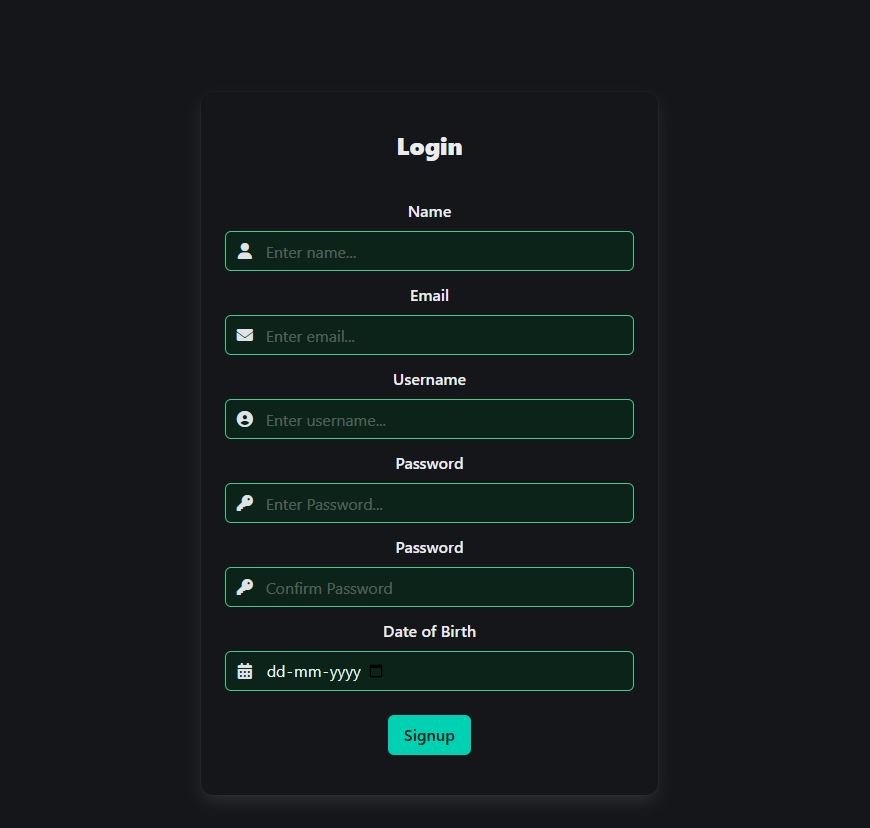
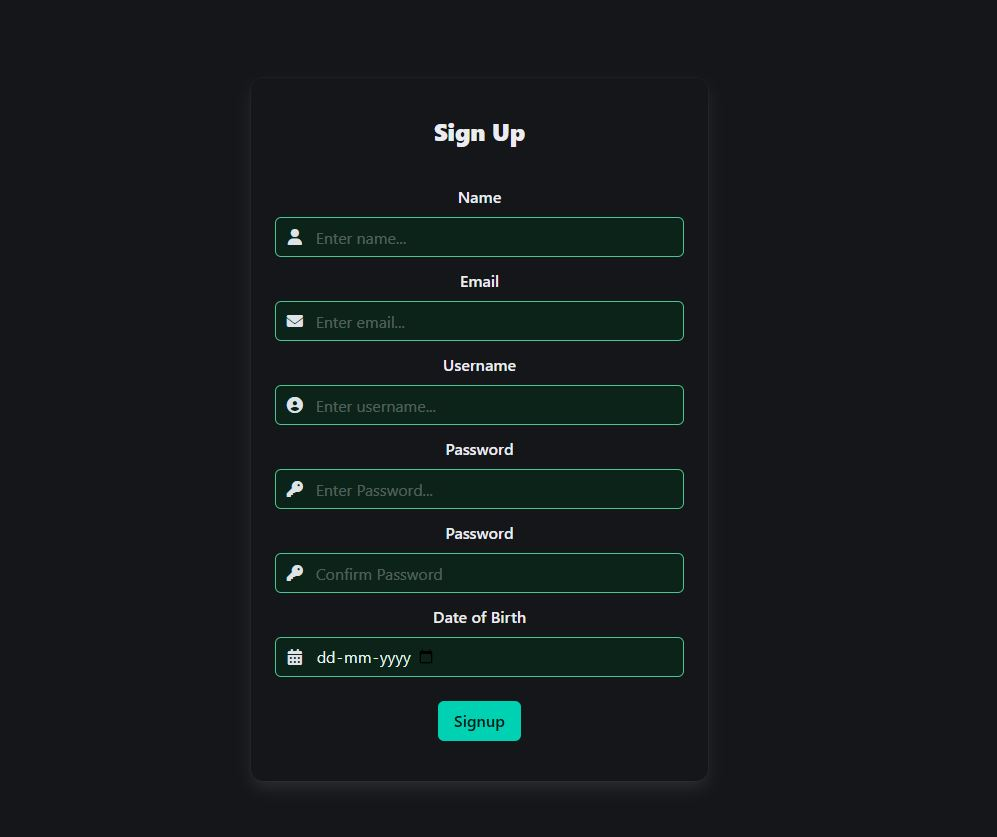
changes

diff --git a/socialMate/src/components/Signup.js b/socialMate/src/components/Signup.js
@@ -80,7 +80,7 @@ const Signup = () => {
             <div className="card-content">
               <div className="media">
                 <div className="media-content">
-                  <p className="title is-4 my-4">Login</p>
+                  <p className="title is-4 my-4">Sign Up</p>
                 </div>
               </div>
               <form onSubmit={createUser}>
